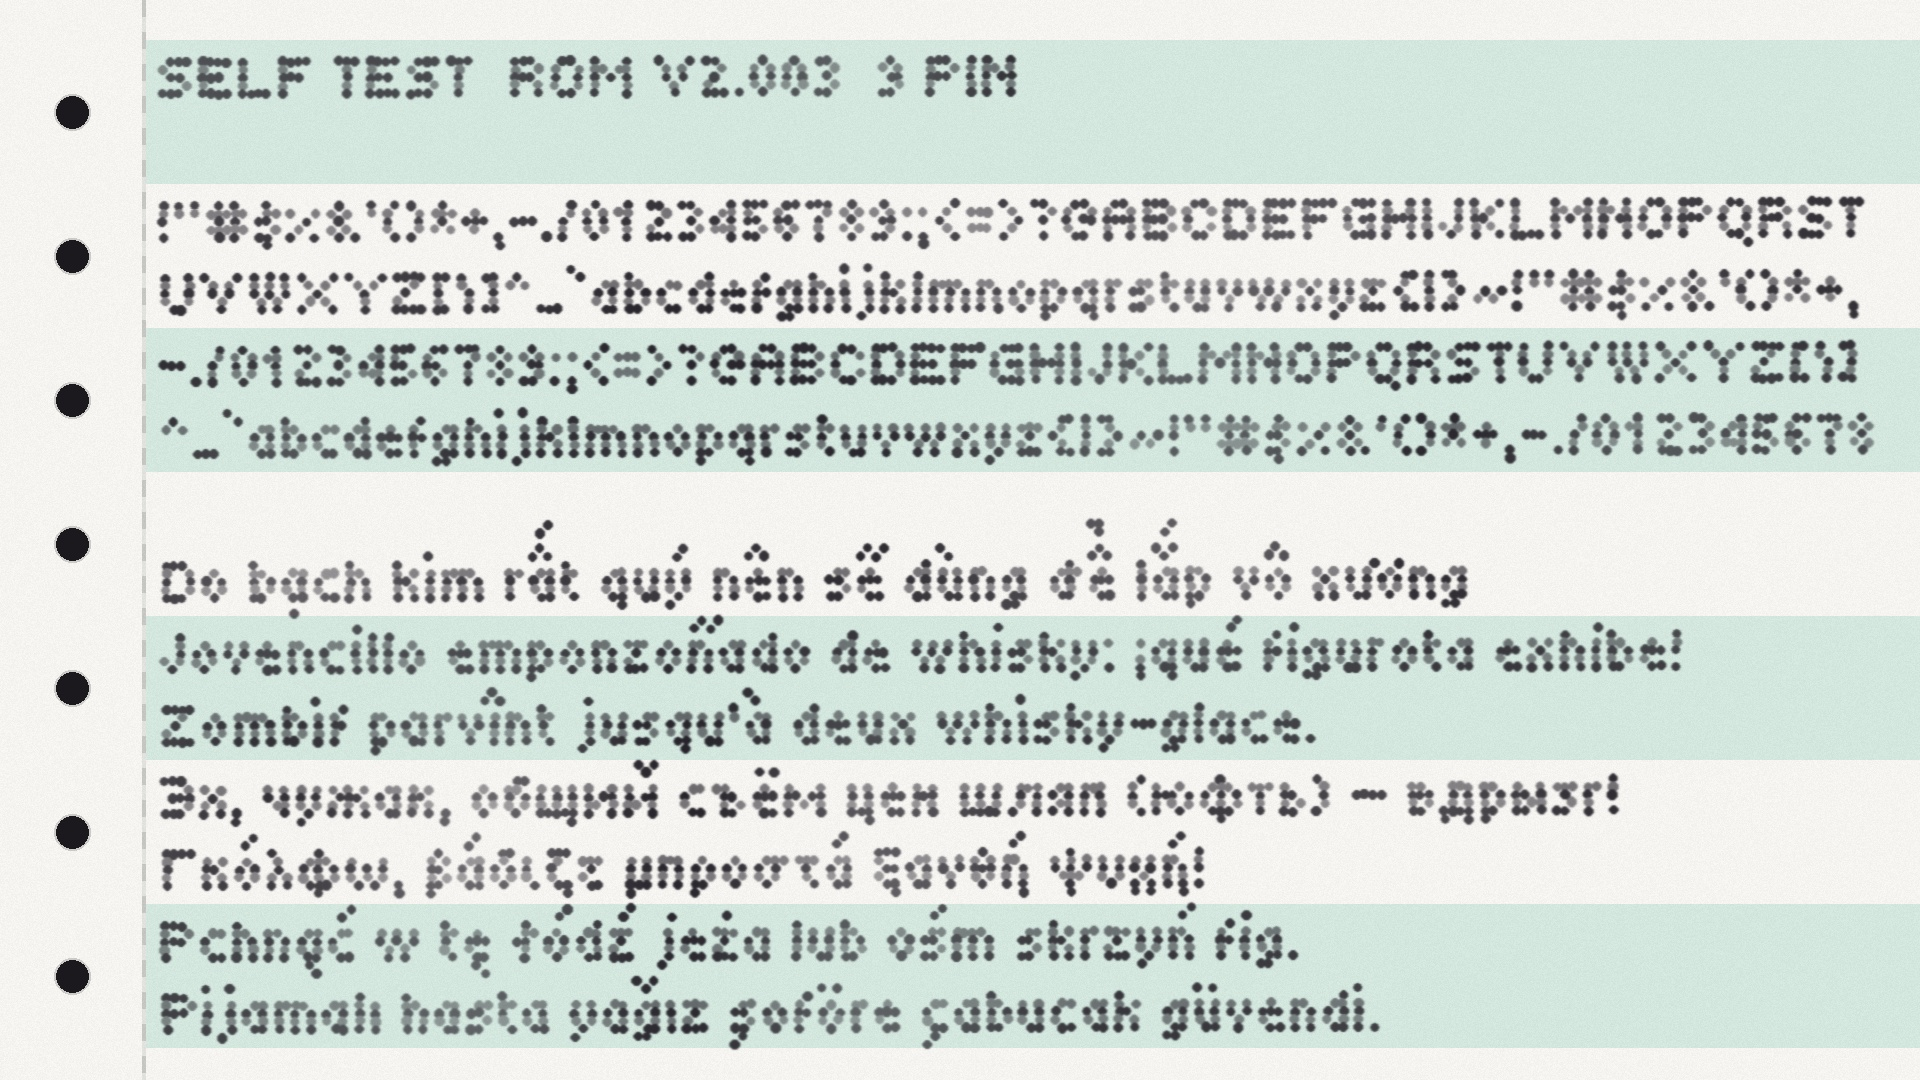
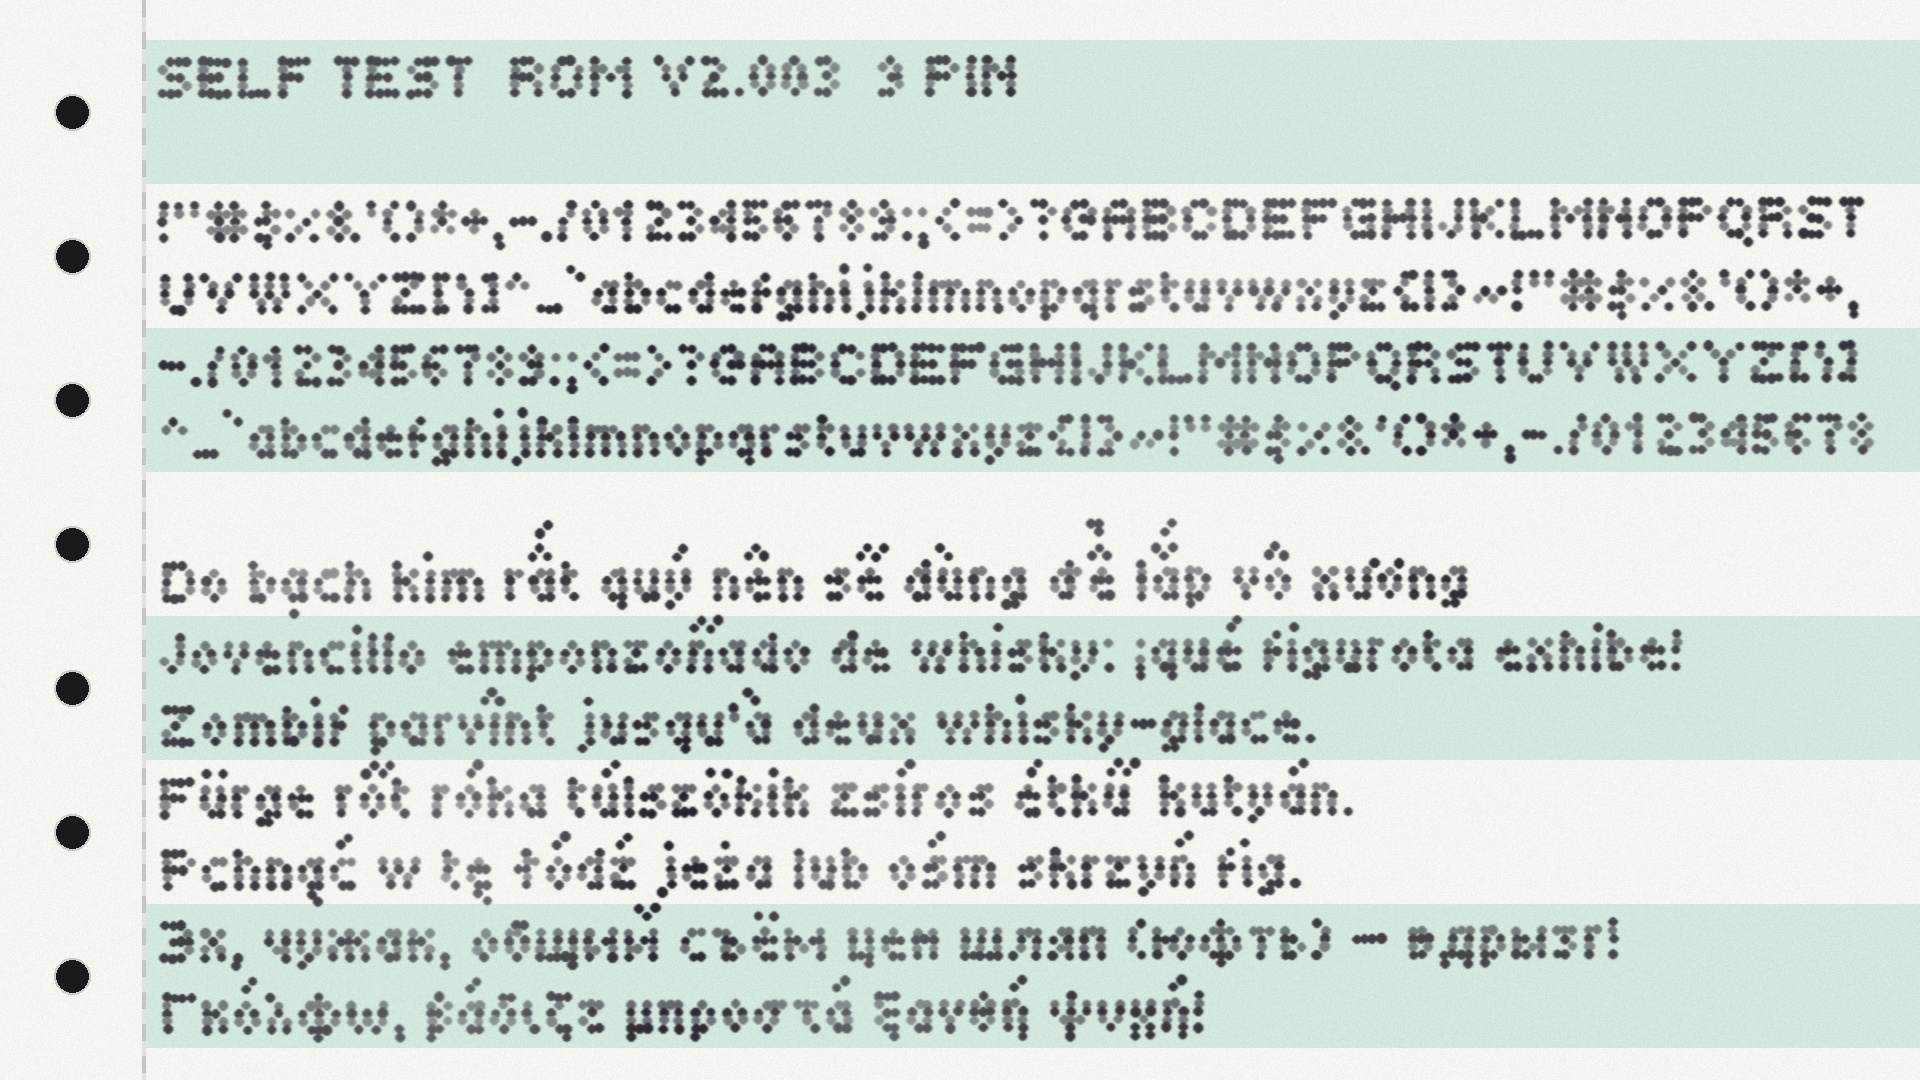
Specimen update

Changed region(s): [[0.0625, 0.7028, 0.8438, 0.9778]]

diff --git a/documentation/build-specimen.py b/documentation/build-specimen.py
@@ -320,11 +320,11 @@ def build_hero():
     d.draw.rectangle(xy=[(11, 2), (11, 3)], fill=255)
     d.draw.rectangle(xy=[(6, 4), (12, 7)], fill=255)        # lock body
     d.draw.rectangle(xy=[(9, 5), (9, 6)], fill=0)           # keyhole
-    d.text((width - 6, 7), 1, "5:55", anchor="rs")
+    d.text((width - 6, 7), 1, "7:55", anchor="rs")
 
     # Title with its subtitle, and the softkey label
     d.text((center, 25), 3, "Tiny5", anchor="ms")
-    d.text((center, 36), 1, "Every pixel counts", anchor="ms")
+    d.text((center, 36), 1, "A 5-pixel font", anchor="ms")
     d.text((center, height - 1), 1, "Menu", anchor="ms", duo=True)
 
     img = render_reflective(d, NOKIA_CELL, NOKIA_BG, NOKIA_FG, CANVAS)
@@ -403,7 +403,7 @@ def build_charset():
     pitch = 9
 
     d.text((margin, 7), 1, "CHARACTER ROM")
-    d.text((width - margin, 7), 1, "Tiny5", anchor="rs")
+    d.text((width - margin, 7), 1, VERSION, anchor="rs")
 
     # The six charset rows on a uniform 9-cell baseline rhythm, the block
     # centered in the space below the header. The exact left edge of the
@@ -1027,18 +1027,17 @@ BEAM_SIGMA_MAX = 0.46
 BEAM_FLOOR = 42                 # emission between scanlines, of 255
 
 TERMINAL_LINES = [
-    "login: guest",
-    "Last login: Fri Jun 5 05:55 on tty5",
+    "login: gissio",
+    "Last login: Fri Jun 5 07:55 on tty5",
     "",
-    "$ setfont tiny5",
-    "Font loaded: Tiny5, 5 pixels tall.",
-    "$ fc-query --brief tiny5",
-    "family: Tiny5 + Tiny5 Duo",
-    "axes: weight width slant round bleed jitter",
-    "pixel-perfect render: increments of 6 pt (8 px)",
-    "",
-    "$ echo Every pixel counts",
-    "Every pixel counts",
+    "$ fc-query --brief Tiny5",
+    "    family: \"Tiny5\"",
+    "    version: " + VERSION,
+    "    glyphs: 1655",
+    "    languages: 897",
+    "    axes: weight width slant round bleed jitter",
+    "    pixel-perfect render: multiples of 6 pt (8 px)",
+    "$ setfont Tiny5",
     "$",
 ]
 
@@ -1186,7 +1185,7 @@ def build_terminal():
 
     # Block cursor waiting on the prompt line
     cursor_top = baseline + (len(TERMINAL_LINES) - 1) * pitch - CAP_PIXELS + 1
-    d.draw.rectangle(xy=[(left + 7, cursor_top), (left + 10, cursor_top + CAP_PIXELS - 1)],
+    d.draw.rectangle(xy=[(left + 6, cursor_top), (left + 9, cursor_top + CAP_PIXELS - 1)],
                      fill=255)
 
     save_image(render_crt(d, CRT_CELL, CRT_BG), "tiny5-sample5.jpg")
@@ -1221,13 +1220,13 @@ ROLLING_LINES = 4
 INTL_LINES = [
     # Vietnamese first: its tall diacritic stacks rise into the blank
     # separator line above
-    "Do bạch kim rất quý nên sẽ dùng để lắp vô xương",
+    "Do bạch kim rất quý nên sẽ dùng để lắp vô xương.",
     "Jovencillo emponzoñado de whisky: ¡qué figurota exhibe!",
     "Zombif parvînt jusqu'à deux whisky-glace.",
+    "Fürge rőt róka túlszökik zsíros étkű kutyán.",
+    "Pchnąć w tę łódź jeża lub ośm skrzyń fig.",
     "Эх, чужак, общий съём цен шляп (юфть) – вдрызг!",
     "Γκόλφω, βάδιζε μπροστά ξανθή ψυχή!",
-    "Pchnąć w tę łódź jeża lub ośm skrzyń fig.",
-    "Pijamalı hasta yağız şoföre çabucak güvendi.",
 ]
 
 
@@ -1239,7 +1238,7 @@ def draw_paper(size, cell, bar_top, rng):
 
     # Green bars, each exactly 2 print lines (18 pixel rows) tall, so each
     # bar carries two single-spaced lines; the pattern continues down the
-    # whole form
+    # whole form-
     for top in range(bar_top * cell, size[1], 2 * LINE_PITCH * cell):
         draw.rectangle(xy=[(CONTENT_LEFT * cell, top),
                            (size[0], top + LINE_PITCH * cell - 1)],
